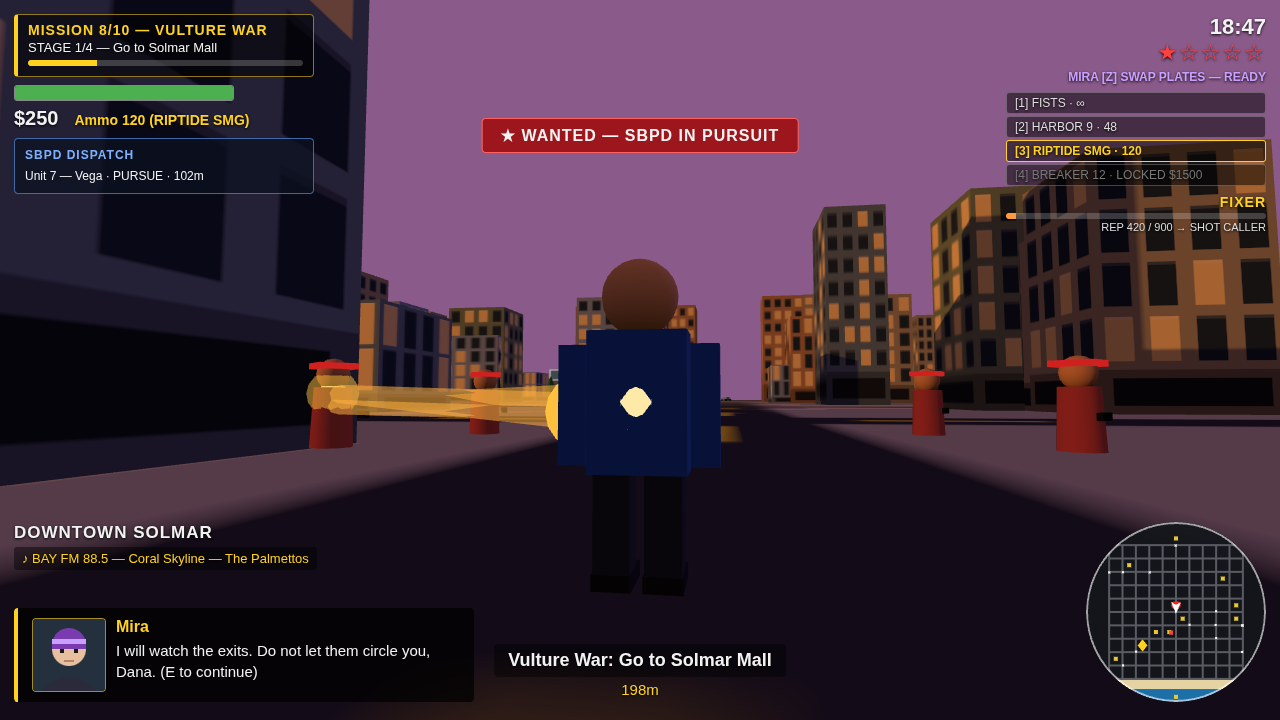
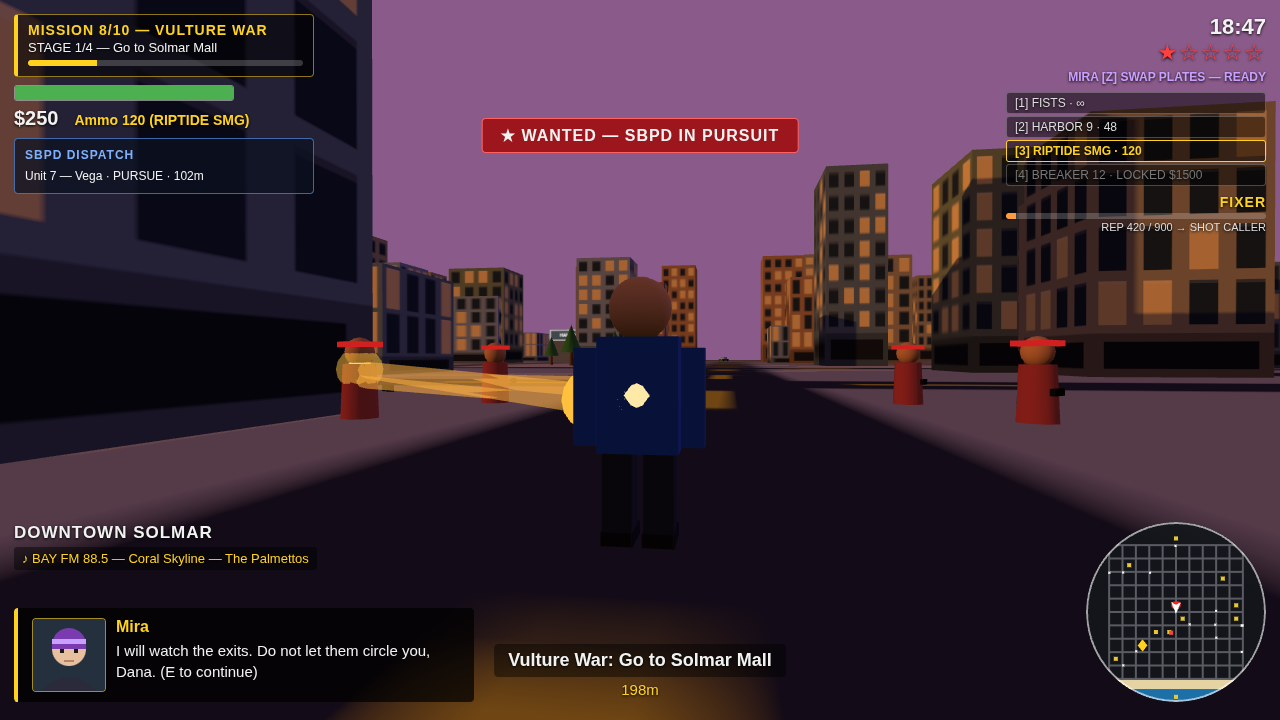
Solmar Bay v7 (sprint 6): people.js rewritten fresh under recording v6, shot-2 tree shift, shot-3 camDist 5.5, shot-4 cones

diff --git a/game/src/people.js b/game/src/people.js
@@ -1,7 +1,5 @@
-// Solmar Bay — pedestrians. They stroll the sidewalks, turn at
-// intersections, and flee from danger (gunfire, a speeding car). A
-// pedestrian run over by a fast car is knocked down for a while and counts
-// as a crime for the wanted system.
+// Solmar Bay — pedestrians: sidewalk walkers who stroll the street grid,
+// flee from danger, and get knocked down by a speeding car.
 
 import { RNG, clamp, dist2 } from './util.js';
 import { PITCH, HALF } from './city.js';
@@ -19,43 +17,54 @@ export class Pedestrians {
   }
 
   _makeMesh(shirt, skin) {
-    const g = new this.THREE.Group();
-    const body = new this.THREE.Mesh(
-      new this.THREE.CylinderGeometry(0.26, 0.3, 0.95, 8),
-      new this.THREE.MeshLambertMaterial({ color: shirt }),
+    const THREE = this.THREE;
+    const group = new THREE.Group();
+
+    const body = new THREE.Mesh(
+      new THREE.CylinderGeometry(0.26, 0.3, 0.95, 8),
+      new THREE.MeshLambertMaterial({ color: shirt }),
     );
     body.position.y = 0.95;
-    g.add(body);
-    const head = new this.THREE.Mesh(
-      new this.THREE.SphereGeometry(0.26, 10, 8),
-      new this.THREE.MeshLambertMaterial({ color: skin }),
+    group.add(body);
+
+    const head = new THREE.Mesh(
+      new THREE.SphereGeometry(0.26, 10, 8),
+      new THREE.MeshLambertMaterial({ color: skin }),
     );
     head.position.y = 1.62;
-    g.add(head);
-    const legMat = new this.THREE.MeshLambertMaterial({ color: 0x2a2c34 });
-    const legGeo = new this.THREE.BoxGeometry(0.16, 0.7, 0.16);
-    const legL = new this.THREE.Mesh(legGeo, legMat);
+    group.add(head);
+
+    const legMat = new THREE.MeshLambertMaterial({ color: 0x2a2c34 });
+    const legGeo = new THREE.BoxGeometry(0.16, 0.7, 0.16);
+    const legL = new THREE.Mesh(legGeo, legMat);
     legL.position.set(-0.13, 0.35, 0);
-    g.add(legL);
-    const legR = new this.THREE.Mesh(legGeo, legMat);
+    group.add(legL);
+    const legR = new THREE.Mesh(legGeo, legMat);
     legR.position.set(0.13, 0.35, 0);
-    g.add(legR);
-    return { group: g, legL, legR, head };
+    group.add(legR);
+
+    return { group, legL, legR, head };
   }
 
   _spawn() {
     for (let i = 0; i < 26; i++) {
-      const street = this.rng.pick([0, 1, 2, 3, 4, 5, 6, 7, 8, 9, 10]);
+      const street = this.rng.int(0, 10);
       const line = -HALF + street * PITCH;
       const along = this.rng.range(-HALF + 10, HALF - 10);
-      const axis = this.rng.pick(['x', 'z']);
+      const axis = this.rng.chance(0.5) ? 'x' : 'z';
+      const offset = this.rng.range(-7.5, 7.5);
+      const pos =
+        axis === 'x'
+          ? { x: along, z: line + offset }
+          : { x: line + offset, z: along };
       const mesh = this._makeMesh(this.rng.pick(SHIRTS), this.rng.pick(SKINS));
+      mesh.group.position.set(pos.x, 0, pos.z);
       this.scene.add(mesh.group);
       this.list.push({
         mesh,
-        pos: axis === 'x' ? { x: along, z: line + this.rng.pick([-7.5, 7.5]) } : { x: line + this.rng.pick([-7.5, 7.5]), z: along },
+        pos,
         axis,
-        dir: this.rng.pick([-1, 1]),
+        dir: this.rng.chance(0.5) ? 1 : -1,
         speed: this.rng.range(1.1, 2.0),
         phase: this.rng.range(0, Math.PI * 2),
         flee: 0,
@@ -64,10 +73,9 @@ export class Pedestrians {
     }
   }
 
-  // Returns the number of pedestrians newly knocked down by a fast car.
   checkCarHit(carPos, carSpeed) {
-    let hits = 0;
     if (carSpeed < 5) return 0;
+    let hits = 0;
     for (const p of this.list) {
       if (p.down > 0) continue;
       if (dist2(p.pos.x, p.pos.z, carPos.x, carPos.z) < 1.8) {
@@ -81,7 +89,15 @@ export class Pedestrians {
   }
 
   update(dt, playerPos, dangerPos) {
+    const nearLine = (v) => {
+      for (let i = 0; i <= 10; i++) {
+        if (Math.abs(v - (-HALF + i * PITCH)) < 2) return true;
+      }
+      return false;
+    };
+
     for (const p of this.list) {
+      // Knocked down: lie still, then get back up and flee.
       if (p.down > 0) {
         p.down -= dt;
         if (p.down <= 0) {
@@ -91,61 +107,76 @@ export class Pedestrians {
         }
         continue;
       }
-      let speed = p.speed;
-      let mx = 0;
-      let mz = 0;
-      // Flee from danger.
+
+      // Run from danger.
       if (dangerPos && dist2(p.pos.x, p.pos.z, dangerPos.x, dangerPos.z) < 14) {
         p.flee = 2;
       }
-      if (p.flee > 0) {
+
+      let mx = 0;
+      let mz = 0;
+      let speed = p.speed;
+      const fleeing = p.flee > 0;
+      if (fleeing) {
         p.flee -= dt;
         speed = 4.2;
-        const dx = p.pos.x - (dangerPos ? dangerPos.x : playerPos.x);
-        const dz = p.pos.z - (dangerPos ? dangerPos.z : playerPos.z);
-        const d = Math.max(0.01, Math.sqrt(dx * dx + dz * dz));
-        mx = dx / d;
-        mz = dz / d;
+        const from = dangerPos || playerPos;
+        if (from) {
+          const dx = p.pos.x - from.x;
+          const dz = p.pos.z - from.z;
+          const len = Math.max(0.01, Math.sqrt(dx * dx + dz * dz));
+          mx = dx / len;
+          mz = dz / len;
+        }
       } else if (p.axis === 'x') {
         mx = p.dir;
       } else {
         mz = p.dir;
       }
+
       p.pos.x += mx * speed * dt;
       p.pos.z += mz * speed * dt;
-      // Turn at intersections or city edge.
-      if (p.flee <= 0) {
-        const nearLine = (v) => {
-          for (let i = 0; i <= 10; i++) {
-            if (Math.abs(v - (-HALF + i * PITCH)) < 2) return true;
-          }
-          return false;
-        };
+
+      // Turn at intersections (only while strolling, not while fleeing).
+      if (!fleeing) {
         if (p.axis === 'x' && nearLine(p.pos.z) && this.rng.chance(dt * 0.5)) {
           p.axis = 'z';
-          p.dir = this.rng.pick([-1, 1]);
-          p.pos.z = Math.round((p.pos.z + HALF) / PITCH) * PITCH - HALF + this.rng.pick([-7.5, 7.5]);
+          p.dir = this.rng.chance(0.5) ? 1 : -1;
+          const offset = this.rng.range(-7.5, 7.5);
+          p.pos.z = Math.round((p.pos.z + HALF) / PITCH) * PITCH - HALF + offset;
         } else if (p.axis === 'z' && nearLine(p.pos.x) && this.rng.chance(dt * 0.5)) {
           p.axis = 'x';
-          p.dir = this.rng.pick([-1, 1]);
-          p.pos.x = Math.round((p.pos.x + HALF) / PITCH) * PITCH - HALF + this.rng.pick([-7.5, 7.5]);
+          p.dir = this.rng.chance(0.5) ? 1 : -1;
+          const offset = this.rng.range(-7.5, 7.5);
+          p.pos.x = Math.round((p.pos.x + HALF) / PITCH) * PITCH - HALF + offset;
         }
-        if (p.pos.x < -HALF + 4 || p.pos.x > HALF - 4) p.dir = p.axis === 'x' ? -p.dir : p.dir;
-        if (p.pos.z < -HALF + 4 || p.pos.z > HALF - 4) p.dir = p.axis === 'z' ? -p.dir : p.dir;
-        p.pos.x = clamp(p.pos.x, -HALF + 2, HALF - 2);
-        p.pos.z = clamp(p.pos.z, -HALF + 2, 312);
       }
-      // Animate walk + face movement direction.
+
+      // City edges: turn around.
+      if (p.pos.x < -HALF + 4 || p.pos.x > HALF - 4) {
+        if (p.axis === 'x') p.dir = -p.dir;
+      }
+      if (p.pos.z < -HALF + 4 || p.pos.z > HALF - 4) {
+        if (p.axis === 'z') p.dir = -p.dir;
+      }
+      p.pos.x = clamp(p.pos.x, -HALF + 2, HALF - 2);
+      // Upper z bound is 312, not HALF - 2: the beach road sits at z ~ 296
+      // and pedestrians must be able to stand there.
+      p.pos.z = clamp(p.pos.z, -HALF + 2, 312);
+
+      // Walk animation.
       p.phase += dt * speed * 3.2;
       const swing = Math.sin(p.phase) * 0.55;
       p.mesh.legL.rotation.x = swing;
       p.mesh.legR.rotation.x = -swing;
       p.mesh.group.position.set(p.pos.x, p.mesh.group.position.y, p.pos.z);
+
+      // Face the direction of travel (shortest-angle interpolation).
       const heading = Math.atan2(mx, mz);
       if (mx !== 0 || mz !== 0) {
-        let d = heading - p.mesh.group.rotation.y;
-        while (d > Math.PI) d -= Math.PI * 2;
-        while (d < -Math.PI) d += Math.PI * 2;
+        let d = (heading - p.mesh.group.rotation.y) % (Math.PI * 2);
+        if (d > Math.PI) d -= Math.PI * 2;
+        if (d <= -Math.PI) d += Math.PI * 2;
         p.mesh.group.rotation.y += d * Math.min(1, dt * 8);
       }
     }

diff --git a/game/src/autopilot.js b/game/src/autopilot.js
@@ -242,11 +242,11 @@ function stageShot(game, n) {
       patchRoadblockMinimap(game);
     }
   } else if (n === 2) {
-    putPlayerInCar(game, -130, 296, Math.PI / 2, 10);
+    putPlayerInCar(game, -130, 299, Math.PI / 2, 10);
     try { if (progress) progress.addRep(180); } catch (e) {}
     startMissionByName(game, 'Neon Street Race');
     clearDialogue(game);
-    game.camYaw = -Math.PI / 2; game.camDist = 9;
+    game.camYaw = -Math.PI / 2; game.camDist = 8;
     try {
       const pedSpots = [[-124, 290], [-119, 302], [-114, 290], [-104, 302], [-98, 290], [-92, 302], [-86, 290], [-80, 302]];
       const peds = (game.peds && game.peds.list) || [];
@@ -295,7 +295,7 @@ function stageShot(game, n) {
       if (line && game.hud && game.hud.showDialogue) game.hud.showDialogue(line.name, line.text);
     } catch (e) {}
     spawnEnemiesNear(game, 0, -20, [[-6, -5], [6, -6], [-5, -9], [5, -10]]);
-    game.camYaw = 0.15; game.camDist = 4.5;
+    game.camYaw = 0.15; game.camDist = 5.5;
     try { stageShotFx(game); } catch (e) { log('stageShotFx failed: ' + (e && e.message ? e.message : e)); }
   } else if (n === 4) {
     putPlayerInCar(game, 0, -240, 0, 26);
@@ -344,6 +344,22 @@ function stageShot(game, n) {
         log('roadblock moved closer: z=-216');
       }
     } catch (e) { log('roadblock move failed: ' + (e && e.message ? e.message : e)); }
+    try {
+      const THREE = game.THREE || (typeof window !== 'undefined' ? window.THREE : undefined);
+      if (THREE && game.scene) {
+        const coneMat = new THREE.MeshLambertMaterial({ color: 0xff6a1a });
+        const baseMat = new THREE.MeshLambertMaterial({ color: 0xdddddd });
+        for (const cx of [-7.5, -4.5, -1.5, 1.5, 4.5, 7.5]) {
+          const cone = new THREE.Mesh(new THREE.ConeGeometry(0.35, 0.9, 8), coneMat);
+          cone.position.set(cx, 0.65, -232);
+          game.scene.add(cone);
+          const base = new THREE.Mesh(new THREE.BoxGeometry(0.6, 0.12, 0.6), baseMat);
+          base.position.set(cx, 0.06, -232);
+          game.scene.add(base);
+        }
+        log('shot4 cones: 6 ahead of player car z=-232');
+      }
+    } catch (e) { log('shot4 cones failed: ' + (e && e.message ? e.message : e)); }
   } else {
     log('unknown shot: ' + n);
   }
